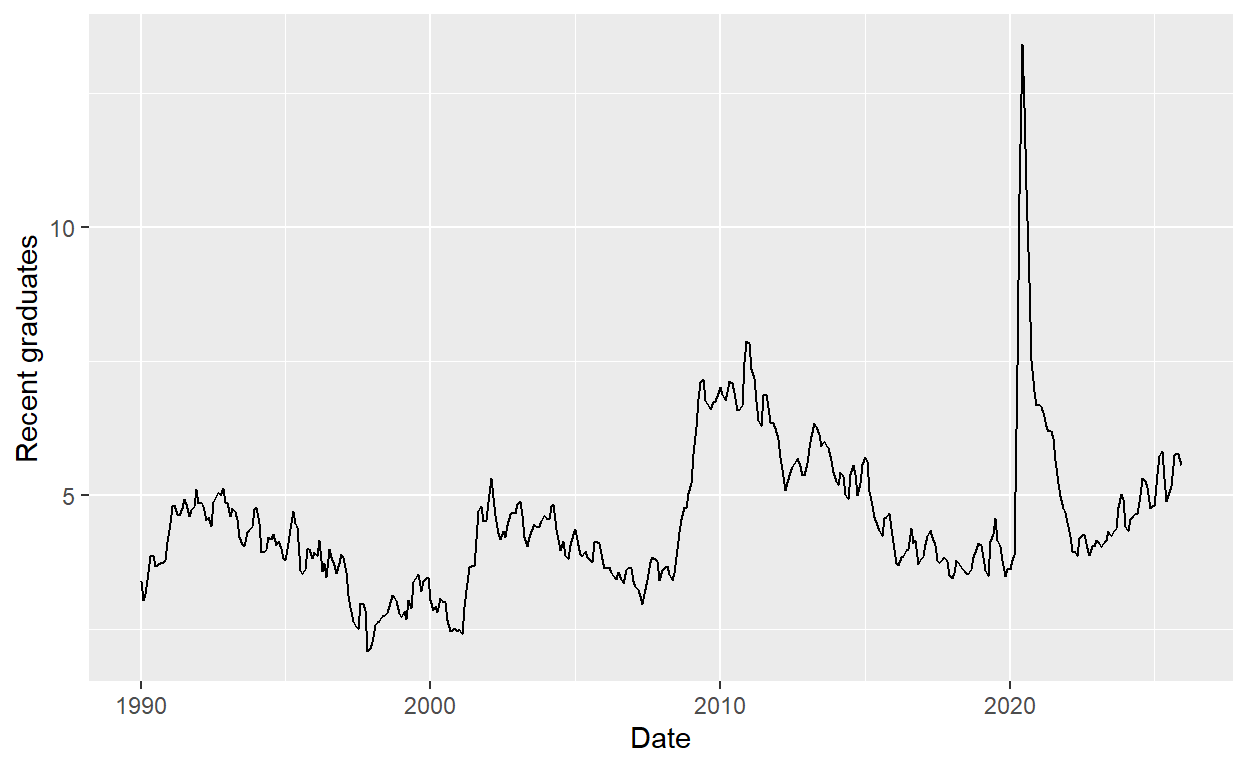
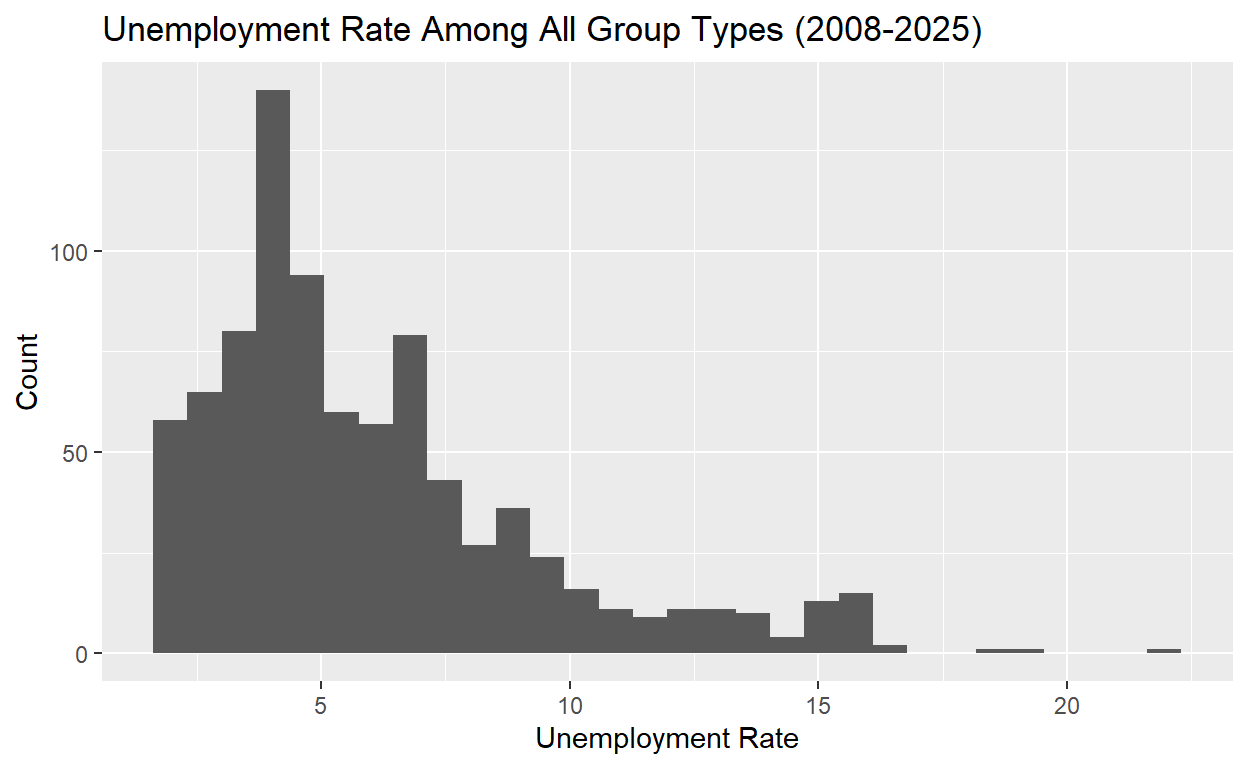
clean up code

diff --git a/index.html b/index.html
@@ -1593,33 +1593,36 @@ In a “Current Population Survey” from the U.S. Census Bureau and U.S. Bureau
 <p>Let’s visualize the unemployment data among all the group types using a histogram for the unemployment rate.</p>
 <div class="layout-chunk" data-layout="l-body">
 <div class="sourceCode">
-<pre class="sourceCode r"><code class="sourceCode r"><span><span class='fu'><a href='https://ggplot2.tidyverse.org/reference/ggplot.html'>ggplot</a></span><span class='op'>(</span><span class='va'>college_labor</span>,</span>
+<pre class="sourceCode r"><code class="sourceCode r"><span><span class='co'># Load data into a histogram</span></span>
+<span><span class='fu'><a href='https://ggplot2.tidyverse.org/reference/ggplot.html'>ggplot</a></span><span class='op'>(</span><span class='va'>college_labor</span>,</span>
 <span>       <span class='fu'><a href='https://ggplot2.tidyverse.org/reference/aes.html'>aes</a></span><span class='op'>(</span>x <span class='op'>=</span> <span class='va'>unemployment_rate</span><span class='op'>)</span><span class='op'>)</span> <span class='op'>+</span></span>
 <span>  <span class='fu'><a href='https://ggplot2.tidyverse.org/reference/geom_histogram.html'>geom_histogram</a></span><span class='op'>(</span>bins <span class='op'>=</span> <span class='fl'>30</span><span class='op'>)</span> <span class='op'>+</span></span>
 <span>  <span class='fu'><a href='https://ggplot2.tidyverse.org/reference/labs.html'>labs</a></span><span class='op'>(</span> x <span class='op'>=</span> <span class='st'>"Unemployment Rate"</span>,</span>
 <span>        y <span class='op'>=</span> <span class='st'>"Count"</span>,</span>
 <span>          title <span class='op'>=</span> <span class='st'>"Unemployment Rate Among All Group Types (2008-2025)"</span> <span class='op'>)</span></span></code></pre>
 </div>
-<p><img src="index_files/figure-html5/unnamed-chunk-7-1.png" alt="" width="624" /></p>
+<p><img src="index_files/figure-html5/unnamed-chunk-4-1.png" alt="" width="624" /></p>
 </div>
 <p>From this histogram, it can be observed the unemployment rate from all group types throughout passage of time post-2008 to December of 2025 most commonly fell below five percent. This means that, from 2008 to 2025, the most common unemployment rate among all group types in the survey was approximately three or four percent.</p>
 <h2 id="results">Results</h2>
 <p>Now, let’s plot the unemployment rates on a boxplot and compare unemployment rates across the different worker groups:</p>
 <div class="layout-chunk" data-layout="l-body">
 <div class="sourceCode">
-<pre class="sourceCode r"><code class="sourceCode r"><span><span class='fu'><a href='https://ggplot2.tidyverse.org/reference/ggplot.html'>ggplot</a></span><span class='op'>(</span><span class='va'>college_labor</span>,</span>
+<pre class="sourceCode r"><code class="sourceCode r"><span><span class='co'># Load data into a boxplot</span></span>
+<span><span class='fu'><a href='https://ggplot2.tidyverse.org/reference/ggplot.html'>ggplot</a></span><span class='op'>(</span><span class='va'>college_labor</span>,</span>
 <span>       <span class='fu'><a href='https://ggplot2.tidyverse.org/reference/aes.html'>aes</a></span><span class='op'>(</span>x <span class='op'>=</span> <span class='va'>group</span>, y <span class='op'>=</span> <span class='va'>unemployment_rate</span><span class='op'>)</span><span class='op'>)</span> <span class='op'>+</span></span>
 <span>  <span class='fu'><a href='https://ggplot2.tidyverse.org/reference/geom_boxplot.html'>geom_boxplot</a></span><span class='op'>(</span><span class='op'>)</span> <span class='op'>+</span></span>
 <span>  <span class='fu'><a href='https://ggplot2.tidyverse.org/reference/labs.html'>labs</a></span><span class='op'>(</span> x <span class='op'>=</span> <span class='st'>"Work Group Types"</span>,</span>
 <span>        y <span class='op'>=</span> <span class='st'>"Unemployment Rate"</span>,</span>
 <span>        title <span class='op'>=</span> <span class='st'>"Unemployment rates across different worker groups, 2008-2025"</span><span class='op'>)</span></span></code></pre>
 </div>
-<p><img src="index_files/figure-html5/unnamed-chunk-8-1.png" alt="" width="624" /></p>
+<p><img src="index_files/figure-html5/unnamed-chunk-5-1.png" alt="" width="624" /></p>
 </div>
 <p>For aesthetics, let’s also plot this on a line graph:</p>
 <div class="layout-chunk" data-layout="l-body">
 <div class="sourceCode">
-<pre class="sourceCode r"><code class="sourceCode r"><span><span class='va'>college_labor</span> <span class='op'>|&gt;</span></span>
+<pre class="sourceCode r"><code class="sourceCode r"><span><span class='co'># Load data into a line graph</span></span>
+<span><span class='va'>college_labor</span> <span class='op'>|&gt;</span></span>
 <span>  <span class='fu'><a href='https://ggplot2.tidyverse.org/reference/ggplot.html'>ggplot</a></span><span class='op'>(</span>mapping <span class='op'>=</span> <span class='fu'><a href='https://ggplot2.tidyverse.org/reference/aes.html'>aes</a></span><span class='op'>(</span>x <span class='op'>=</span> <span class='va'>`Date`</span>, y <span class='op'>=</span> <span class='va'>unemployment_rate</span>, color <span class='op'>=</span> <span class='va'>group</span><span class='op'>)</span><span class='op'>)</span> <span class='op'>+</span></span>
 <span>  <span class='fu'><a href='https://ggplot2.tidyverse.org/reference/geom_path.html'>geom_line</a></span><span class='op'>(</span>linewidth <span class='op'>=</span> <span class='fl'>0.8</span><span class='op'>)</span> <span class='op'>+</span></span>
 <span>    <span class='fu'><a href='https://ggplot2.tidyverse.org/reference/scale_date.html'>scale_x_date</a></span><span class='op'>(</span>date_breaks <span class='op'>=</span> <span class='st'>"2 years"</span>, date_labels <span class='op'>=</span> <span class='st'>"%Y"</span><span class='op'>)</span> <span class='op'>+</span></span>
@@ -1628,12 +1631,13 @@ In a “Current Population Survey” from the U.S. Census Bureau and U.S. Bureau
 <span>        title <span class='op'>=</span> <span class='st'>"Unemployment Rate Among Group Types"</span>,</span>
 <span>        color <span class='op'>=</span> <span class='st'>"Groups"</span><span class='op'>)</span></span></code></pre>
 </div>
-<p><img src="index_files/figure-html5/unnamed-chunk-9-1.png" alt="" width="624" /></p>
+<p><img src="index_files/figure-html5/unnamed-chunk-6-1.png" alt="" width="624" /></p>
 </div>
 <p>Now let’s calculate the regression:</p>
 <div class="layout-chunk" data-layout="l-body">
 <div class="sourceCode">
-<pre class="sourceCode r"><code class="sourceCode r"><span><span class='fu'><a href='https://modelsummary.com/man/modelsummary.html'>modelsummary</a></span><span class='op'>(</span><span class='va'>collegelabor.reg</span>,</span>
+<pre class="sourceCode r"><code class="sourceCode r"><span><span class='co'># Clean up regression table and make it more readable</span></span>
+<span><span class='fu'><a href='https://modelsummary.com/man/modelsummary.html'>modelsummary</a></span><span class='op'>(</span><span class='va'>collegelabor.reg</span>,</span>
 <span>             coef_map <span class='op'>=</span> <span class='fu'><a href='https://rdrr.io/r/base/c.html'>c</a></span><span class='op'>(</span></span>
 <span>               <span class='st'>"(Intercept)"</span> <span class='op'>=</span> <span class='st'>"Baseline (All workers)"</span>,</span>
 <span>               <span class='st'>"Date"</span> <span class='op'>=</span> <span class='st'>"Time Trend"</span>,</span>
